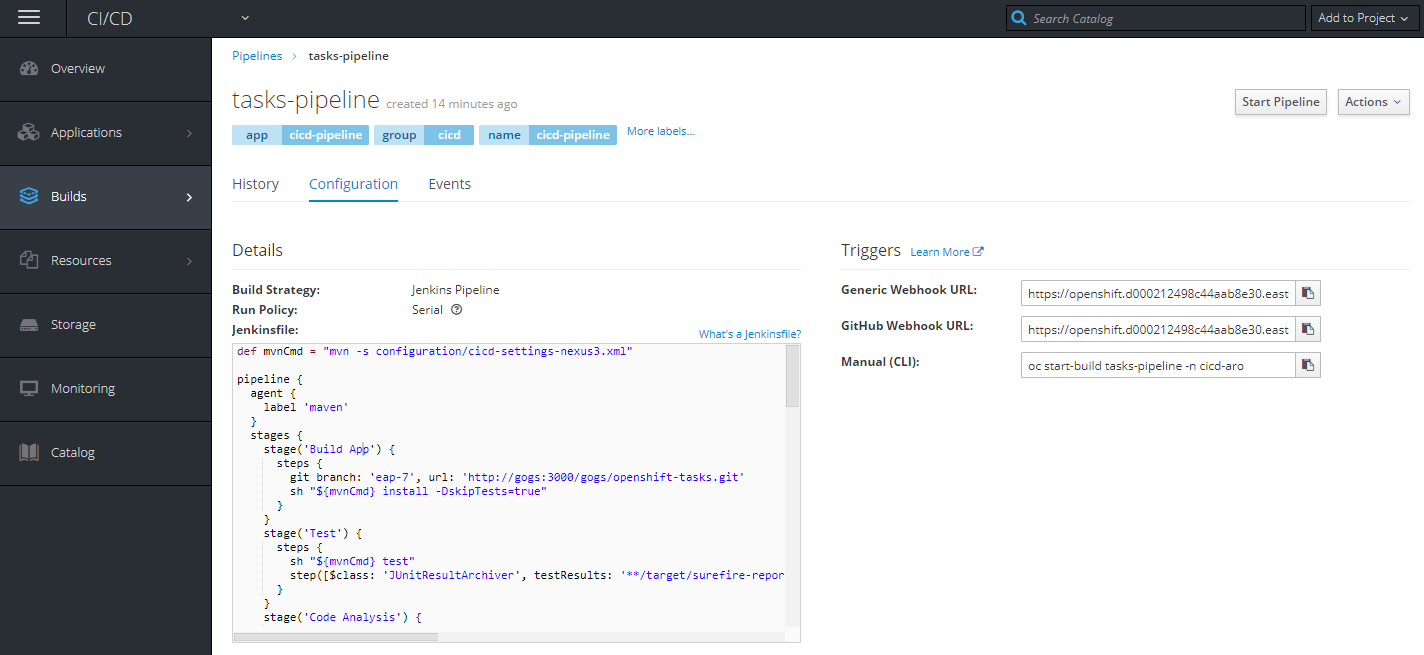
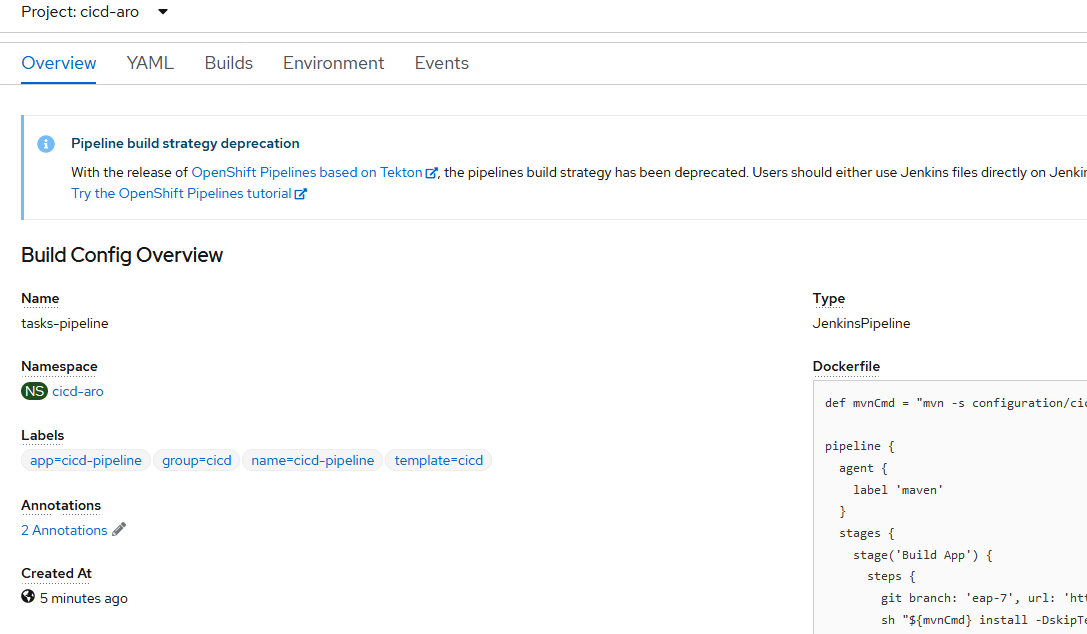
end of workshop

diff --git a/_entries/04-03 run_cicd_pipeline.md b/_entries/04-03 run_cicd_pipeline.md
@@ -7,17 +7,17 @@ parent-id: lab-cicd
 
 ### Run the CI/CD Pipeline
 
-A CI/CD pipeline is created by the demo provision script. Please review the pipeline and trigger an execution.
+A CI/CD pipeline is created by the demo provision script inside the cicd-aro project. Please review the pipeline and trigger an execution.
 
 {% collapsible %}
 
-On OpenShift Web Console, Navigate to project `CICD`. From the side navigation menu, select menu item `Builds`, then `Pipelines`. 
+On OpenShift Web Console, Navigate to project `cicd-aro`. From the side navigation menu, select menu item `Builds`, then `Pipelines`. 
 
 You will see there is a pipeline, named `tasks-pipeline`. Click on the name of the pipeline, then you will see the pipeline overview page. In the tab `Configuration`, you will see the definition of the pipeline.
 
 ![Pipeline Definition](media/cicd-definition.png)
 
-To run the pipeline, click on button `Start Pipeline`, which is on the top right corner. Then Azure Red Hat OpenShift will start a new execution instance for that pipeline.
+To run the pipeline, click on the menu Actions > `Start Build`, which is on the top right corner. Then Azure Red Hat OpenShift will start a new execution instance for that pipeline.
 
 {% endcollapsible %}
 
@@ -54,7 +54,7 @@ Click on the link `Input Required` , and you will be navigated to Jenkins. Click
 After the pipeline execution is completed, please review the execution result on the web console. You also can login to the Jenkins console to check out the detail.
 
 {% collapsible %}
-If everything works fine, you will be albe to see all pipeline stages completed successfully, as it shown below. The sample application was built and deployed into project `Dev` and `Stage`.
+If everything works fine, you will be able to see all pipeline stages completed successfully, as it shown below. The sample application was built and deployed into project `Dev` and `Stage`.
 
 ![CiCD Result](media/cicd-pipeline-result.png)
 

diff --git a/_entries/03-05 storage.md b/_entries/03-05 storage.md
@@ -33,7 +33,7 @@ You will see the file you created is still there and you can open it to view its
 
 ![Crash Message](/media/managedlab/19-ostoy-existingfile.png)
 
-Now let's confirm that it's actually there by using the CLI and checking if it is available to the container.  If you remember we mounted the directory `/var/demo-files` to our PVC.  So get the name of your frontend pod
+Now let's confirm that it's actually there by using the CLI and checking if it is available to the container.  If you remember we mounted the directory `/var/demo_files` to our PVC.  So get the name of your frontend pod
 
 `oc get pods`
 
@@ -41,7 +41,7 @@ then get an SSH session into the container
 
 `oc rsh <podname>`
 
-then `cd /var/demo-files`
+then `cd /var/demo_files`
 
 if you enter `ls` you can see all the files you created.  Next, let's open the file we created and see the contents
 

diff --git a/_entries/02-03 mongodb.md b/_entries/02-03 mongodb.md
@@ -21,10 +21,10 @@ There are two templates available:
 > oc get templates -n openshift
 > ```
 
-Create a mongoDB deployment using the `mongodb-persistent` template. You're passing in the values to be replaced (username, password and database) which generates a YAML/JSON file. You then pipe it to the `oc create` command.
+Create a mongoDB deployment using the `mongodb-ephemeral` template. You're passing in the values to be replaced (username, password and database) which generates a YAML/JSON file. You then pipe it to the `oc create` command.
 
 ```sh
-oc process openshift//mongodb-persistent \
+oc process openshift//mongodb-ephemeral \
     -p MONGODB_USER=ratingsuser \
     -p MONGODB_PASSWORD=ratingspassword \
     -p MONGODB_DATABASE=ratingsdb \
